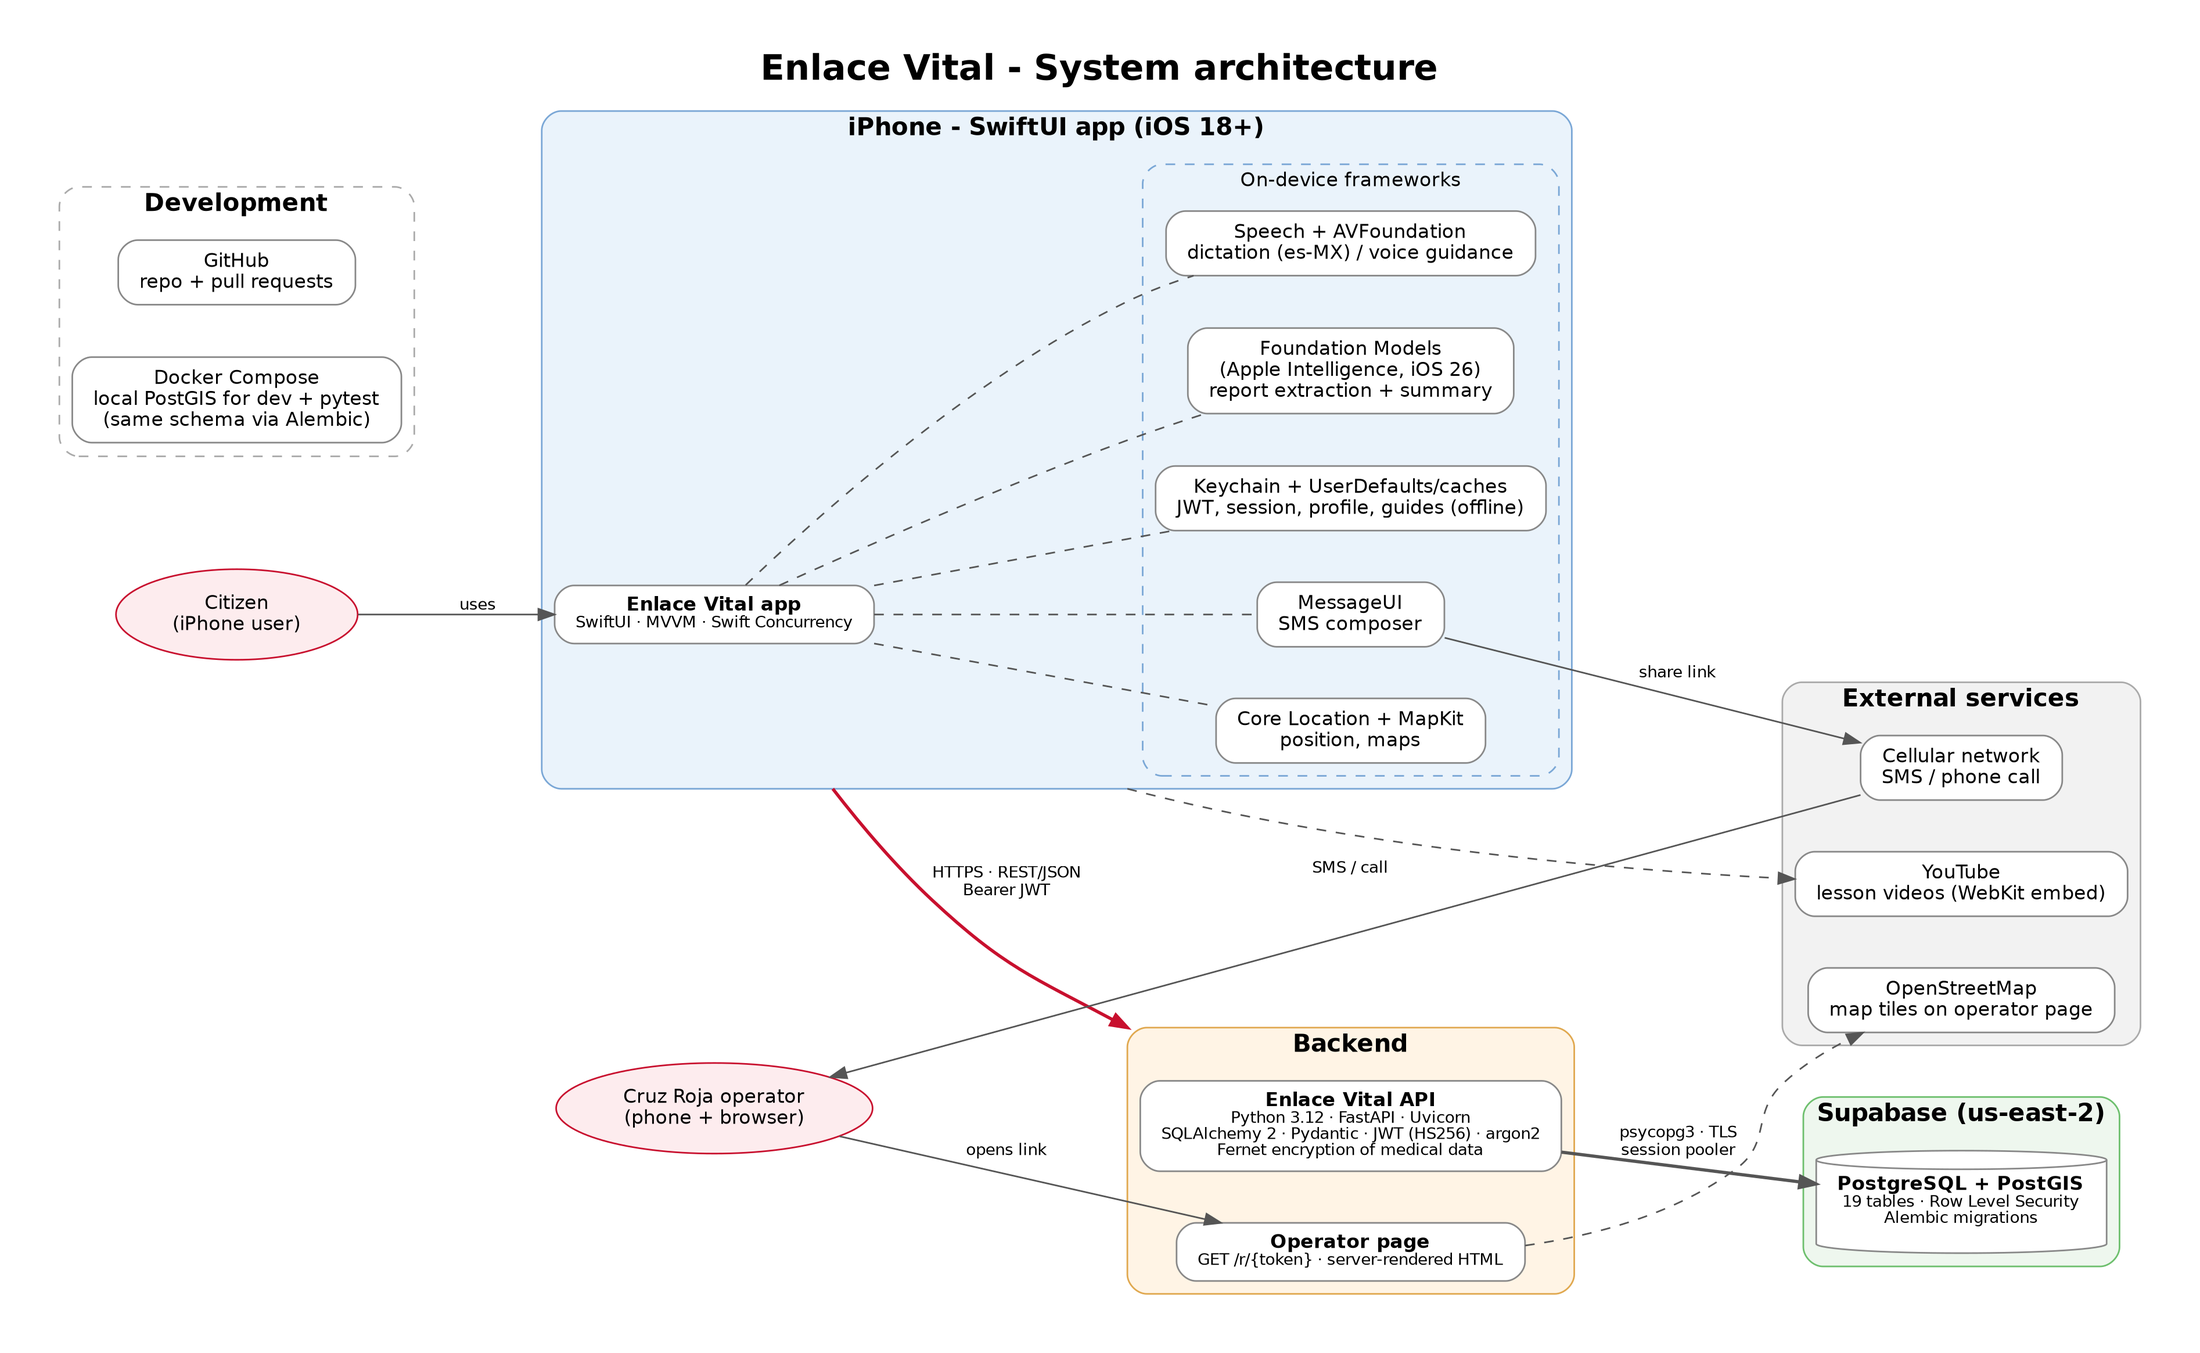
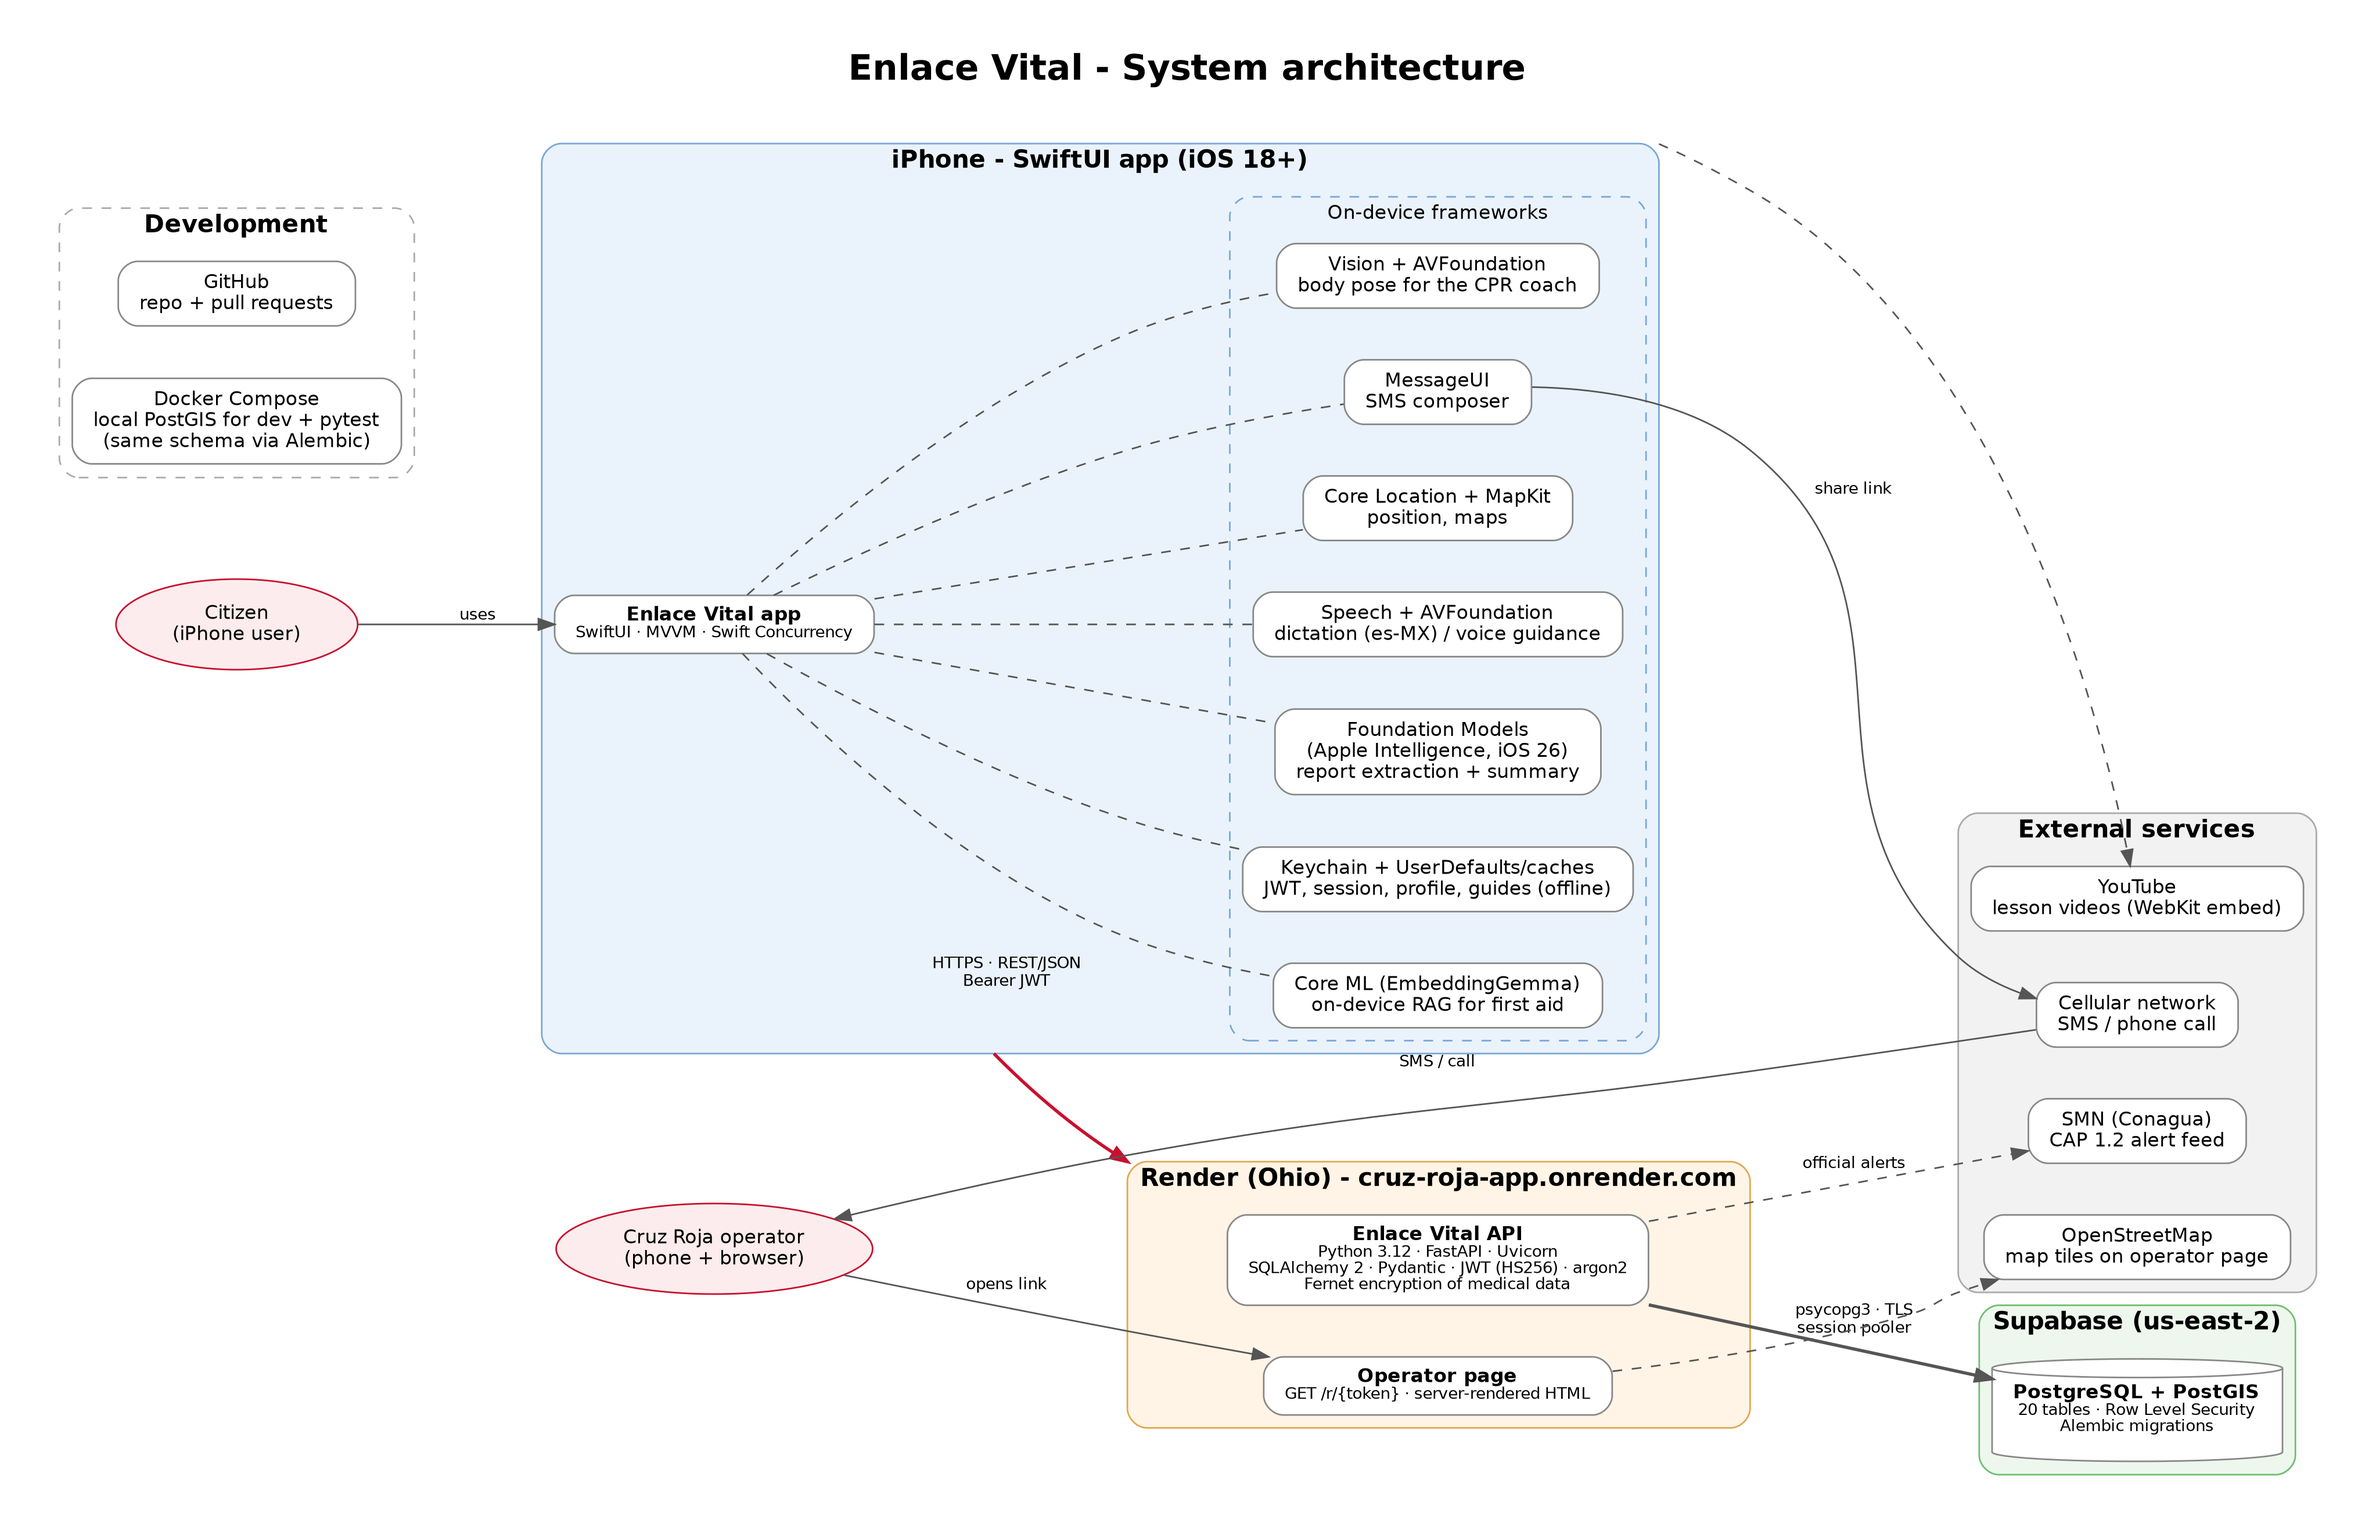
Update architecture diagrams with RAG, CPR coach, SMN feed and Render

diff --git a/docs/architecture/src/gen_folders.py b/docs/architecture/src/gen_folders.py
@@ -18,7 +18,8 @@ IOS = ("CruzRoja/", "iOS app target", [
             ("ViewModels/", "@MainActor @Observable state", []),
             ("Views/", "SwiftUI screens", []),
         ]),
-        ("Assistant/", "first-aid guides (offline cache)", []),
+        ("Assistant/", "first-aid guides + on-device RAG (EmbeddingGemma)", []),
+        ("CPRCoach/", "camera CPR coach (Vision body pose)", []),
         ("Alerts/", "official alerts + community reports", []),
         ("Family/", "family circle, wellbeing checks", []),
         ("Learn/", "lessons, videos, progress", []),
@@ -30,6 +31,7 @@ IOS = ("CruzRoja/", "iOS app target", [
 BACKEND = ("backend/", "Python package enlace-vital-backend", [
     ("app/", "FastAPI application", [
         ("main.py", "creates the app and registers routers", []),
+        ("smn_alerts.py", "imports SMN CAP alerts into official_alerts", []),
         ("routers/", "Controllers: one module per resource", []),
         ("schemas/", "Views: Pydantic request/response DTOs", []),
         ("models/", "Models: SQLAlchemy ORM tables by domain", []),
@@ -37,8 +39,8 @@ BACKEND = ("backend/", "Python package enlace-vital-backend", [
         ("crypto.py", "Fernet encryption of medical data", []),
         ("db.py / deps.py", "engine, session per request", []),
     ]),
-    ("alembic/versions/", "schema migrations 0001-0010", []),
-    ("scripts/", "seed.py, demo_official_alerts.py", []),
+    ("alembic/versions/", "schema migrations 0001-0011", []),
+    ("scripts/", "seed.py, sync_official_alerts.py, load_knowledge.py", []),
     ("tests/", "pytest against a throwaway Postgres DB", []),
     ("pyproject.toml", "dependencies and tooling", []),
 ])

diff --git a/docs/architecture/src/gen_database.py b/docs/architecture/src/gen_database.py
@@ -29,10 +29,11 @@ M = {
   ("community_report_confirmations", [("report_id","uuid","PK FK"),("user_id","uuid","PK FK"),("created_at","timestamptz","")]),
   ("community_report_flags", [("report_id","uuid","PK FK"),("user_id","uuid","PK FK"),("created_at","timestamptz","")]),
  ]),
- "Learning": ("#F2F2F2", [
+ "Learning and RAG": ("#F2F2F2", [
   ("guides", [("id","varchar(80)","PK"),("title","varchar(120)",""),("icon","varchar(80)",""),("keywords","text[]",""),("manual_page","int",""),("position","int",""),("steps","jsonb","")]),
   ("lessons", [("id","uuid","PK"),("title","varchar(120)",""),("description","text",""),("duration_seconds","int",""),("video_url","varchar(500)",""),("guide_id","varchar(80)","FK"),("publisher","text",""),("steps","text[]",""),("position","int","")]),
   ("lesson_completions", [("user_id","uuid","PK FK"),("lesson_id","uuid","PK FK"),("completed_at","timestamptz","")]),
+  ("kb_chunks", [("id","varchar(120)","PK"),("text","text",""),("embedding","real[]",""),("embedding_model","text",""),("updated_at","timestamptz","")]),
  ]),
 }
 
